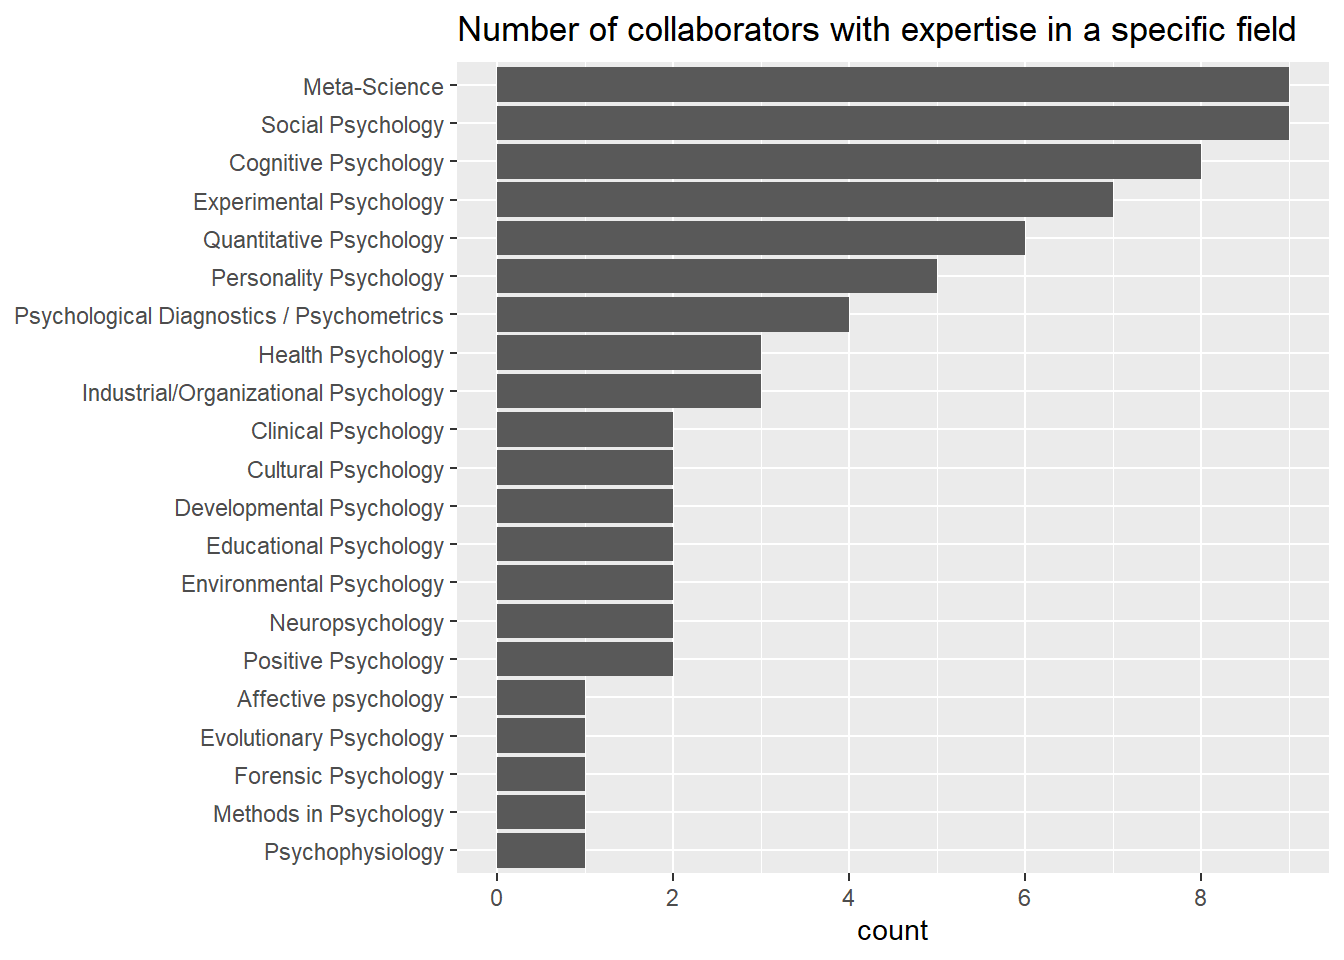
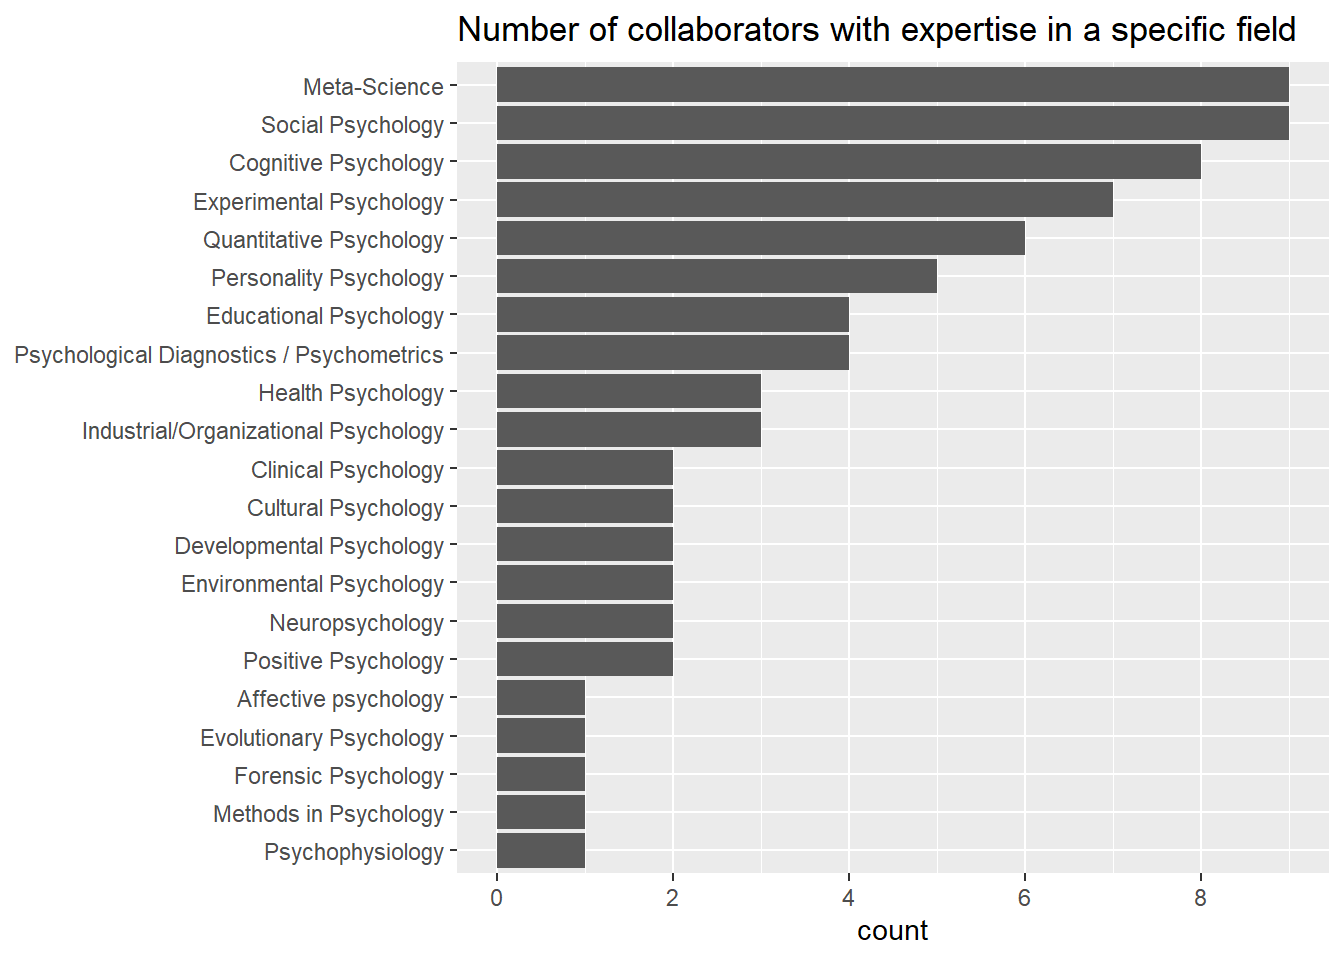
Update analysis data

Changed region(s): [[0.0, 0.3125, 0.3438, 0.5938], [0.5625, 0.3438, 0.6562, 0.4062], [0.5, 0.4062, 0.5938, 0.4688]]

diff --git a/docs/qrp_collab_survey.html b/docs/qrp_collab_survey.html
@@ -119,7 +119,7 @@ pre > code.sourceCode > span > a:first-child::before { text-decoration: underlin
 </tr>
 <tr class="even">
 <td style="text-align: left;">Number of rows</td>
-<td style="text-align: left;">17</td>
+<td style="text-align: left;">19</td>
 </tr>
 <tr class="odd">
 <td style="text-align: left;">Number of columns</td>
@@ -189,11 +189,11 @@ pre > code.sourceCode > span > a:first-child::before { text-decoration: underlin
 <tr class="even">
 <td style="text-align: left;">ethnicity</td>
 <td style="text-align: right;">1</td>
-<td style="text-align: right;">0.94</td>
+<td style="text-align: right;">0.95</td>
 <td style="text-align: right;">5</td>
 <td style="text-align: right;">19</td>
 <td style="text-align: right;">0</td>
-<td style="text-align: right;">5</td>
+<td style="text-align: right;">6</td>
 <td style="text-align: right;">0</td>
 </tr>
 <tr class="odd">
@@ -214,12 +214,12 @@ pre > code.sourceCode > span > a:first-child::before { text-decoration: underlin
 <col style="width: 18%">
 <col style="width: 13%">
 <col style="width: 18%">
-<col style="width: 6%">
-<col style="width: 6%">
+<col style="width: 8%">
+<col style="width: 5%">
 <col style="width: 4%">
 <col style="width: 5%">
 <col style="width: 5%">
-<col style="width: 6%">
+<col style="width: 5%">
 <col style="width: 6%">
 <col style="width: 8%">
 </colgroup>
@@ -242,15 +242,15 @@ pre > code.sourceCode > span > a:first-child::before { text-decoration: underlin
 <tr class="odd">
 <td style="text-align: left;">age</td>
 <td style="text-align: right;">2</td>
-<td style="text-align: right;">0.88</td>
-<td style="text-align: right;">34.2</td>
-<td style="text-align: right;">4.95</td>
+<td style="text-align: right;">0.89</td>
+<td style="text-align: right;">34.06</td>
+<td style="text-align: right;">5.1</td>
 <td style="text-align: right;">26</td>
-<td style="text-align: right;">31</td>
+<td style="text-align: right;">30</td>
 <td style="text-align: right;">34</td>
-<td style="text-align: right;">37.5</td>
+<td style="text-align: right;">38</td>
 <td style="text-align: right;">43</td>
-<td style="text-align: left;">▆▆▆▇▃</td>
+<td style="text-align: left;">▆▅▅▇▃</td>
 </tr>
 </tbody>
 </table>
@@ -395,7 +395,7 @@ params$discern): Some strata appear at multiple axes.</code></pre>
 </tr>
 <tr class="even">
 <td style="text-align: left;">Number of rows</td>
-<td style="text-align: left;">17</td>
+<td style="text-align: left;">19</td>
 </tr>
 <tr class="odd">
 <td style="text-align: left;">Number of columns</td>
@@ -458,27 +458,27 @@ params$discern): Some strata appear at multiple axes.</code></pre>
 <td style="text-align: left;">research_age</td>
 <td style="text-align: right;">0</td>
 <td style="text-align: right;">1</td>
-<td style="text-align: right;">9.12</td>
-<td style="text-align: right;">3.98</td>
+<td style="text-align: right;">8.89</td>
+<td style="text-align: right;">3.94</td>
 <td style="text-align: right;">2</td>
-<td style="text-align: right;">6</td>
+<td style="text-align: right;">5.5</td>
 <td style="text-align: right;">9</td>
 <td style="text-align: right;">11</td>
 <td style="text-align: right;">16</td>
-<td style="text-align: left;">▃▆▇▃▆</td>
+<td style="text-align: left;">▃▅▇▂▅</td>
 </tr>
 <tr class="even">
 <td style="text-align: left;">metaresearch_age</td>
 <td style="text-align: right;">0</td>
 <td style="text-align: right;">1</td>
-<td style="text-align: right;">5.35</td>
-<td style="text-align: right;">2.94</td>
+<td style="text-align: right;">5.16</td>
+<td style="text-align: right;">2.83</td>
 <td style="text-align: right;">2</td>
-<td style="text-align: right;">3</td>
-<td style="text-align: right;">5</td>
+<td style="text-align: right;">3.0</td>
+<td style="text-align: right;">4</td>
 <td style="text-align: right;">6</td>
 <td style="text-align: right;">12</td>
-<td style="text-align: left;">▇▅▁▂▁</td>
+<td style="text-align: left;">▇▃▁▂▁</td>
 </tr>
 </tbody>
 </table>
@@ -501,7 +501,7 @@ params$discern): Some strata appear at multiple axes.</code></pre>
 </tr>
 <tr class="even">
 <td style="text-align: left;">Number of rows</td>
-<td style="text-align: left;">17</td>
+<td style="text-align: left;">19</td>
 </tr>
 <tr class="odd">
 <td style="text-align: left;">Number of columns</td>
@@ -532,15 +532,15 @@ params$discern): Some strata appear at multiple axes.</code></pre>
 <p><strong>Variable type: numeric</strong></p>
 <table class="caption-top table table-sm table-striped small">
 <colgroup>
-<col style="width: 20%">
+<col style="width: 19%">
 <col style="width: 12%">
 <col style="width: 17%">
 <col style="width: 7%">
 <col style="width: 7%">
 <col style="width: 3%">
 <col style="width: 6%">
-<col style="width: 6%">
-<col style="width: 5%">
+<col style="width: 4%">
+<col style="width: 7%">
 <col style="width: 6%">
 <col style="width: 7%">
 </colgroup>
@@ -562,40 +562,40 @@ params$discern): Some strata appear at multiple axes.</code></pre>
 <tbody>
 <tr class="odd">
 <td style="text-align: left;">publication_age</td>
-<td style="text-align: right;">0</td>
-<td style="text-align: right;">1.00</td>
-<td style="text-align: right;">6.94</td>
-<td style="text-align: right;">3.96</td>
 <td style="text-align: right;">1</td>
-<td style="text-align: right;">4.00</td>
-<td style="text-align: right;">7.0</td>
-<td style="text-align: right;">10</td>
+<td style="text-align: right;">0.95</td>
+<td style="text-align: right;">6.67</td>
+<td style="text-align: right;">4.01</td>
+<td style="text-align: right;">1</td>
+<td style="text-align: right;">3.25</td>
+<td style="text-align: right;">6</td>
+<td style="text-align: right;">9.75</td>
 <td style="text-align: right;">14</td>
-<td style="text-align: left;">▇▇▆▇▃</td>
+<td style="text-align: left;">▇▆▅▆▃</td>
 </tr>
 <tr class="even">
 <td style="text-align: left;">publications</td>
 <td style="text-align: right;">0</td>
 <td style="text-align: right;">1.00</td>
-<td style="text-align: right;">27.71</td>
-<td style="text-align: right;">35.01</td>
+<td style="text-align: right;">26.63</td>
+<td style="text-align: right;">33.17</td>
 <td style="text-align: right;">2</td>
-<td style="text-align: right;">7.00</td>
-<td style="text-align: right;">14.0</td>
-<td style="text-align: right;">32</td>
+<td style="text-align: right;">7.50</td>
+<td style="text-align: right;">15</td>
+<td style="text-align: right;">27.00</td>
 <td style="text-align: right;">137</td>
 <td style="text-align: left;">▇▁▁▁▁</td>
 </tr>
 <tr class="odd">
 <td style="text-align: left;">h_index</td>
-<td style="text-align: right;">1</td>
-<td style="text-align: right;">0.94</td>
-<td style="text-align: right;">10.62</td>
-<td style="text-align: right;">10.74</td>
 <td style="text-align: right;">2</td>
-<td style="text-align: right;">3.75</td>
-<td style="text-align: right;">6.5</td>
-<td style="text-align: right;">13</td>
+<td style="text-align: right;">0.89</td>
+<td style="text-align: right;">10.18</td>
+<td style="text-align: right;">10.57</td>
+<td style="text-align: right;">2</td>
+<td style="text-align: right;">3.00</td>
+<td style="text-align: right;">5</td>
+<td style="text-align: right;">12.00</td>
 <td style="text-align: right;">42</td>
 <td style="text-align: left;">▇▂▂▁▁</td>
 </tr>
